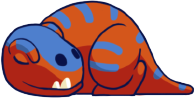
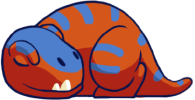
E4: Add second ended
Added ending when dino is full, added school splice

diff --git a/exercises/age-of-aquariums/js/script.js b/exercises/age-of-aquariums/js/script.js
@@ -19,7 +19,7 @@ Evaluation:
 let school = [];
 let schoolSize = 10;
 
-let gameTimer = 3;
+let gameTimer = 10;
 let timer = 0;
 
 let avoLeft;
@@ -27,6 +27,9 @@ let avoRight;
 let avoImgWidth = 105;
 let avoImgHeight = 190;
 
+let dinoSleepImg;
+let dinoSleepImgWidth = 195;
+let dinoSleepImgHeight = 100;
 let dinoImgWidth = 263;
 let dinoImgHeight = 136;
 let dinoNomImgWidth = 187;
@@ -34,6 +37,7 @@ let dinoNomImgHeight = 190;
 let aniIndex = 0;
 let dinoAnimationFrames = [];
 let eatingAnimationFrames = [];
+
 
 let isEating = false;
 let eatTimer = 1;
@@ -71,6 +75,8 @@ function preload() {
 
   eatingAnimationFrames[0] = loadImage("assets/images/dinonom1.png");
   eatingAnimationFrames[1] = loadImage("assets/images/dinonom2.png");
+
+  dinoSleepImg = loadImage("assets/images/dinosleep.png");
 }
 
 
@@ -79,7 +85,7 @@ Description of setup
 */
 function setup() {
   createCanvas(windowWidth, windowHeight);
-
+  noCursor();
   state = states.TITLE;
 }
 
@@ -99,10 +105,10 @@ function draw() {
     sim();
   }
   else if(state == states.ENDUNO){
-    endUno();
+    ending(eatingAnimationFrames[0], "Oops, the meteor crashed before the dinosaur could eat its fill! Looks like it died on an empty stomach :(", dinoNomImgWidth, dinoNomImgHeight);
   }
   else if(state == states.ENDDOS){
-
+    ending(dinoSleepImg, "Aww, the dinosaur is sleeping soundly with a full stomach. It didn't even notice the apocalypse :)", dinoSleepImgWidth, dinoSleepImgHeight);
   }
 }
 
@@ -231,7 +237,7 @@ function sim(){
     timer++;
   }
   else if(timer >= gameTimer){
-    state = states.ENDUNO;
+    state = school.length > 0 ? states.ENDUNO : states.ENDDUO;
   }
 
   // meteor animation
@@ -256,14 +262,14 @@ function sim(){
 }
 
 
-function endUno(){
+function ending(img, t, w, h){
   //let explosionInterval = 10;
   //let explosionTimer = 0;
 
   drawGround();
 
   push();
-  image(eatingAnimationFrames[0], 400, 400, dinoNomImgWidth * 2, dinoNomImgHeight * 2);
+  image(img, 400, 400, w * 2, h * 2);
   pop();
 
   let explosionX = map(timer, 0, gameTimer, 0, width);
@@ -296,7 +302,7 @@ function endUno(){
   rect(10, 10, 400, 250);
   fill(255);
   textSize(32);
-  text("Oops, the meteor crashed before the dinosaur could eat its fill! Looks like it died on an empty stomach :(", 15, 15, 400, 200);
+  text(t, 15, 15, 400, 200);
   textSize(16);
   text("Press F5 to restart.", 15, 200, 200, 20);
   pop();
@@ -345,14 +351,22 @@ function displayFish(fish){
   let scaledWidth = fish.fWidth * wScalar;
 
   let img = fish.vx > 0 ? avoRight : avoLeft;
+
+  imageMode(CENTER);
   image(img, fish.x, fish.y, scaledWidth, scaledHeight);
   pop();
 }
 
-// creates a fish at the mouse position
+
 function mousePressed(){
-  //let fish = createFish(mouseX, mouseY);
-  //school.push(fish);
+
+  for(let i = 0; i < school.length; i++){
+    let fish = school[i];
+    let d = dist(fish.x, fish.y, mouseX, mouseY);
+    if(d < (avoImgWidth + avoImgWidth) / 4){
+      school.splice(i, 1);
+    }
+  }
 
   aniIndex = 0;
   isEating = true;
